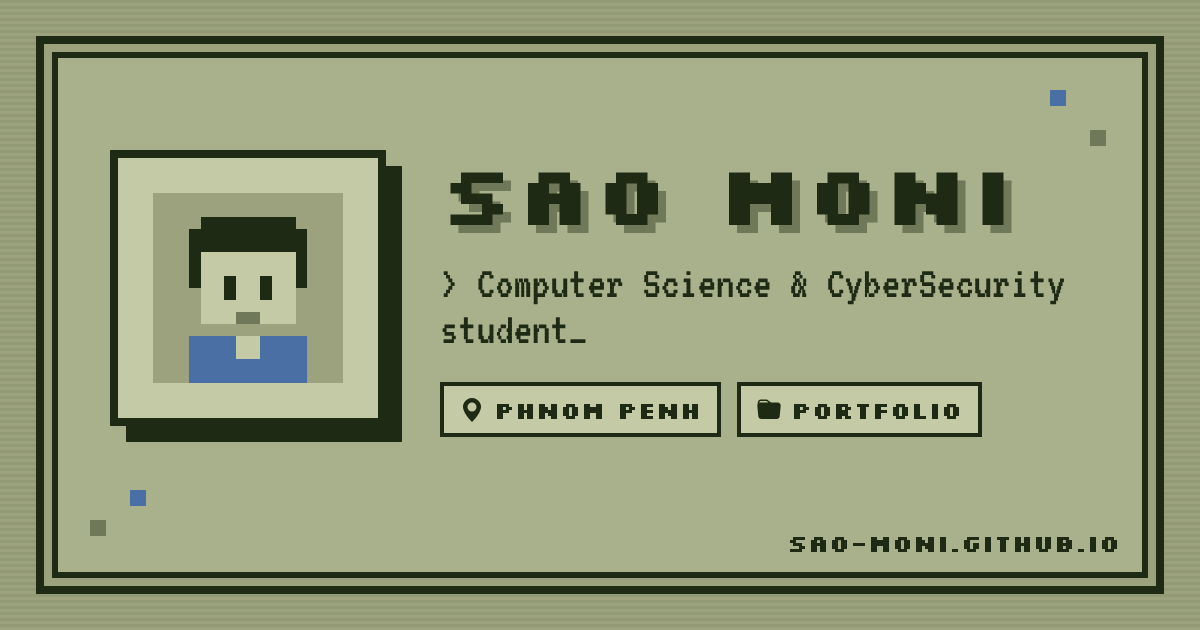
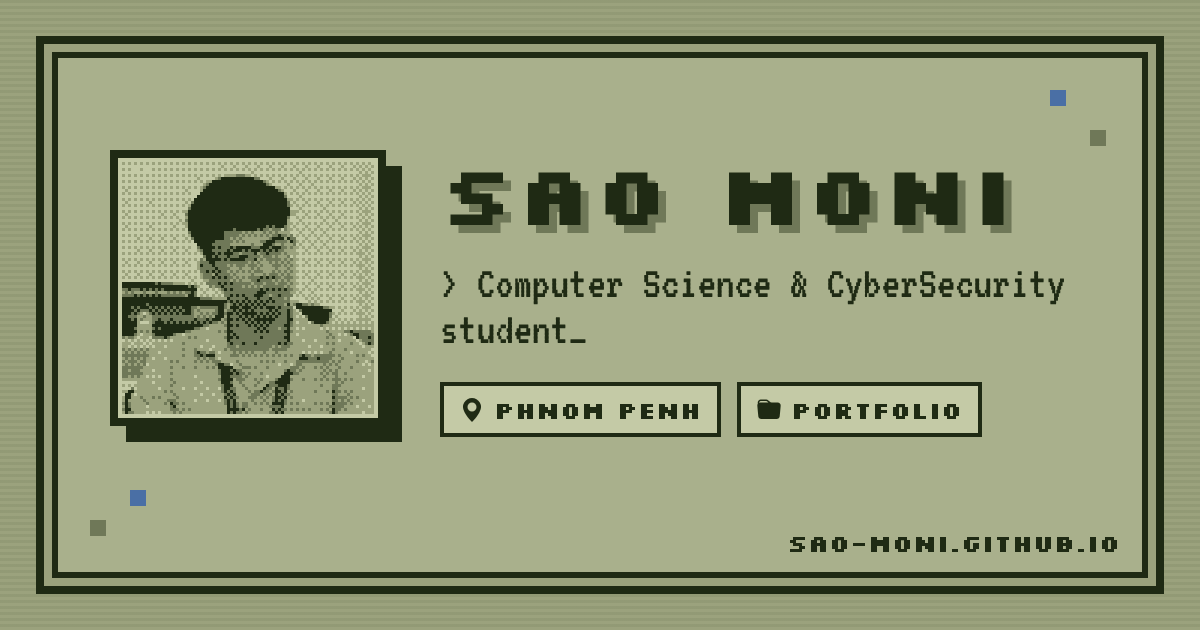
update og

Changed region(s): [[0.0925, 0.2413, 0.3392, 0.6635]]

diff --git a/index.html b/index.html
@@ -25,7 +25,7 @@
 <meta property="og:title" content="Sao Moni – Portfolio">
 <meta property="og:description" content="Computer Science & CyberSecurity student in Phnom Penh, Cambodia. See my projects and skills.">
 <meta property="og:url" content="https://www.saomoni.tech/">
-<meta property="og:image" content="https://www.saomoni.tech/og-image.png">
+<meta property="og:image" content="https://www.saomoni.tech/og-image.png?v=2">
 <meta property="og:image:width" content="1200">
 <meta property="og:image:height" content="630">
 <meta property="og:image:alt" content="Sao Moni – Portfolio">
@@ -34,7 +34,7 @@
 <meta name="twitter:card" content="summary_large_image">
 <meta name="twitter:title" content="Sao Moni – Portfolio">
 <meta name="twitter:description" content="Computer Science & CyberSecurity student in Phnom Penh, Cambodia.">
-<meta name="twitter:image" content="https://www.saomoni.tech/og-image.png">
+<meta name="twitter:image" content="https://www.saomoni.tech/og-image.png?v=2">
 
 <link href="https://cdn.jsdelivr.net/npm/bootstrap@5.3.3/dist/css/bootstrap.min.css" rel="stylesheet">
 <link href="https://cdn.jsdelivr.net/npm/bootstrap-icons@1.11.3/font/bootstrap-icons.min.css" rel="stylesheet">
